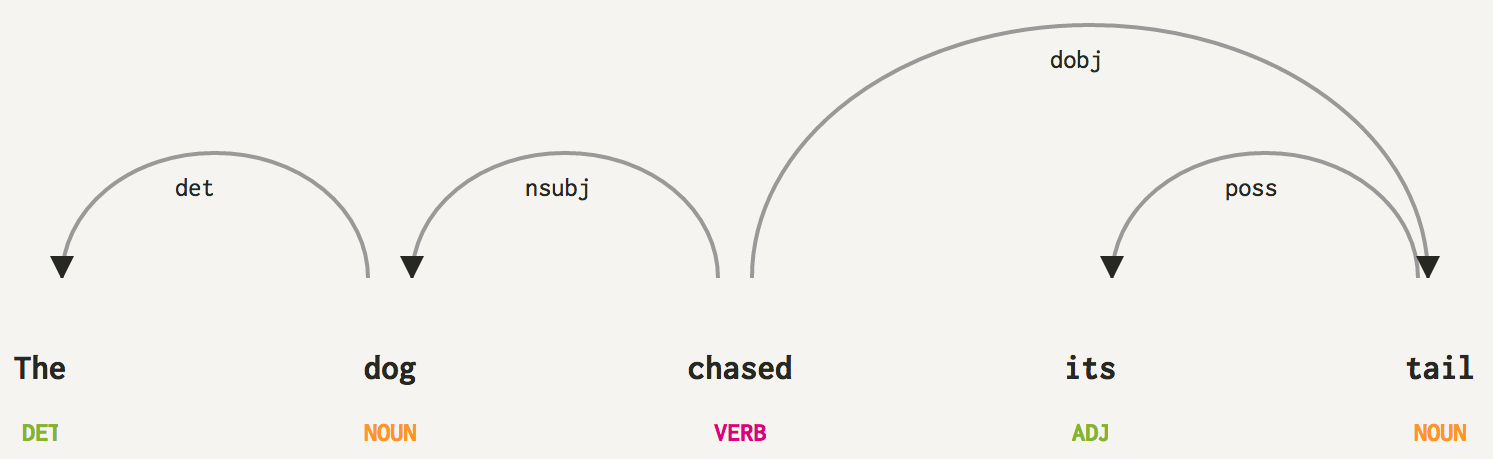
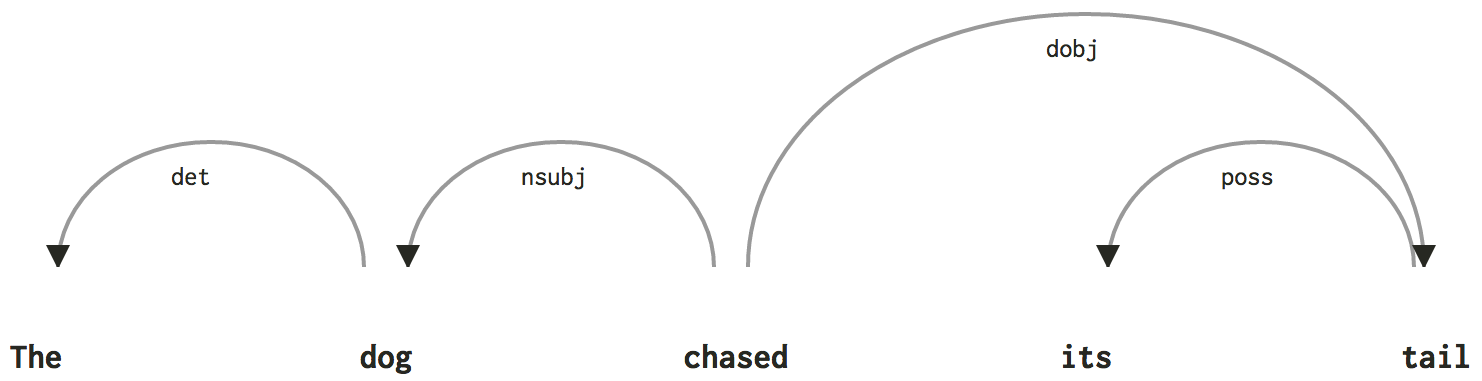
Autocommit: figures/syn.png main.tex

diff --git a/main.tex b/main.tex
@@ -262,11 +262,16 @@ as three words to the left and right of the target word, but there are
 alternatives. For example, using very large windows of similarity results in
 emphasizing more topical similarity, e.g. doctor and hospital, while smaller
 windows emphasize more functional similarity, e.g. doctor and surgeon NEEDCITE.
-Context can be also defined as {\em syntactic neighbors} \cite{pado:2007:cl},
-as demonstrated in Figure~\ref{fig:syn}.
+Context can be also defined as {\em syntactic neighbors} extracted
+from a dependency parse \cite{pado:2007:cl}. For example, in Figure~\ref{fig:syn},
+the contexts for the word {\em chased} would be {\em nsubj+dog} and {\em
+dobj+tail}. Distributional Spaces defined in this manner tend to emphasize
+the {\em selectional preferences} of words, or a sort of argument values for
+particular relations.
 
 \begin{figure}
-  \includegraphics[width=0.7\textwidth]{figures/syn}
+  \centering
+  \includegraphics[width=0.75\textwidth]{figures/syn}
 \caption{Example of a dependency parse for ``The dog chased its tail.''}
 \label{fig:syn}
 \end{figure}
